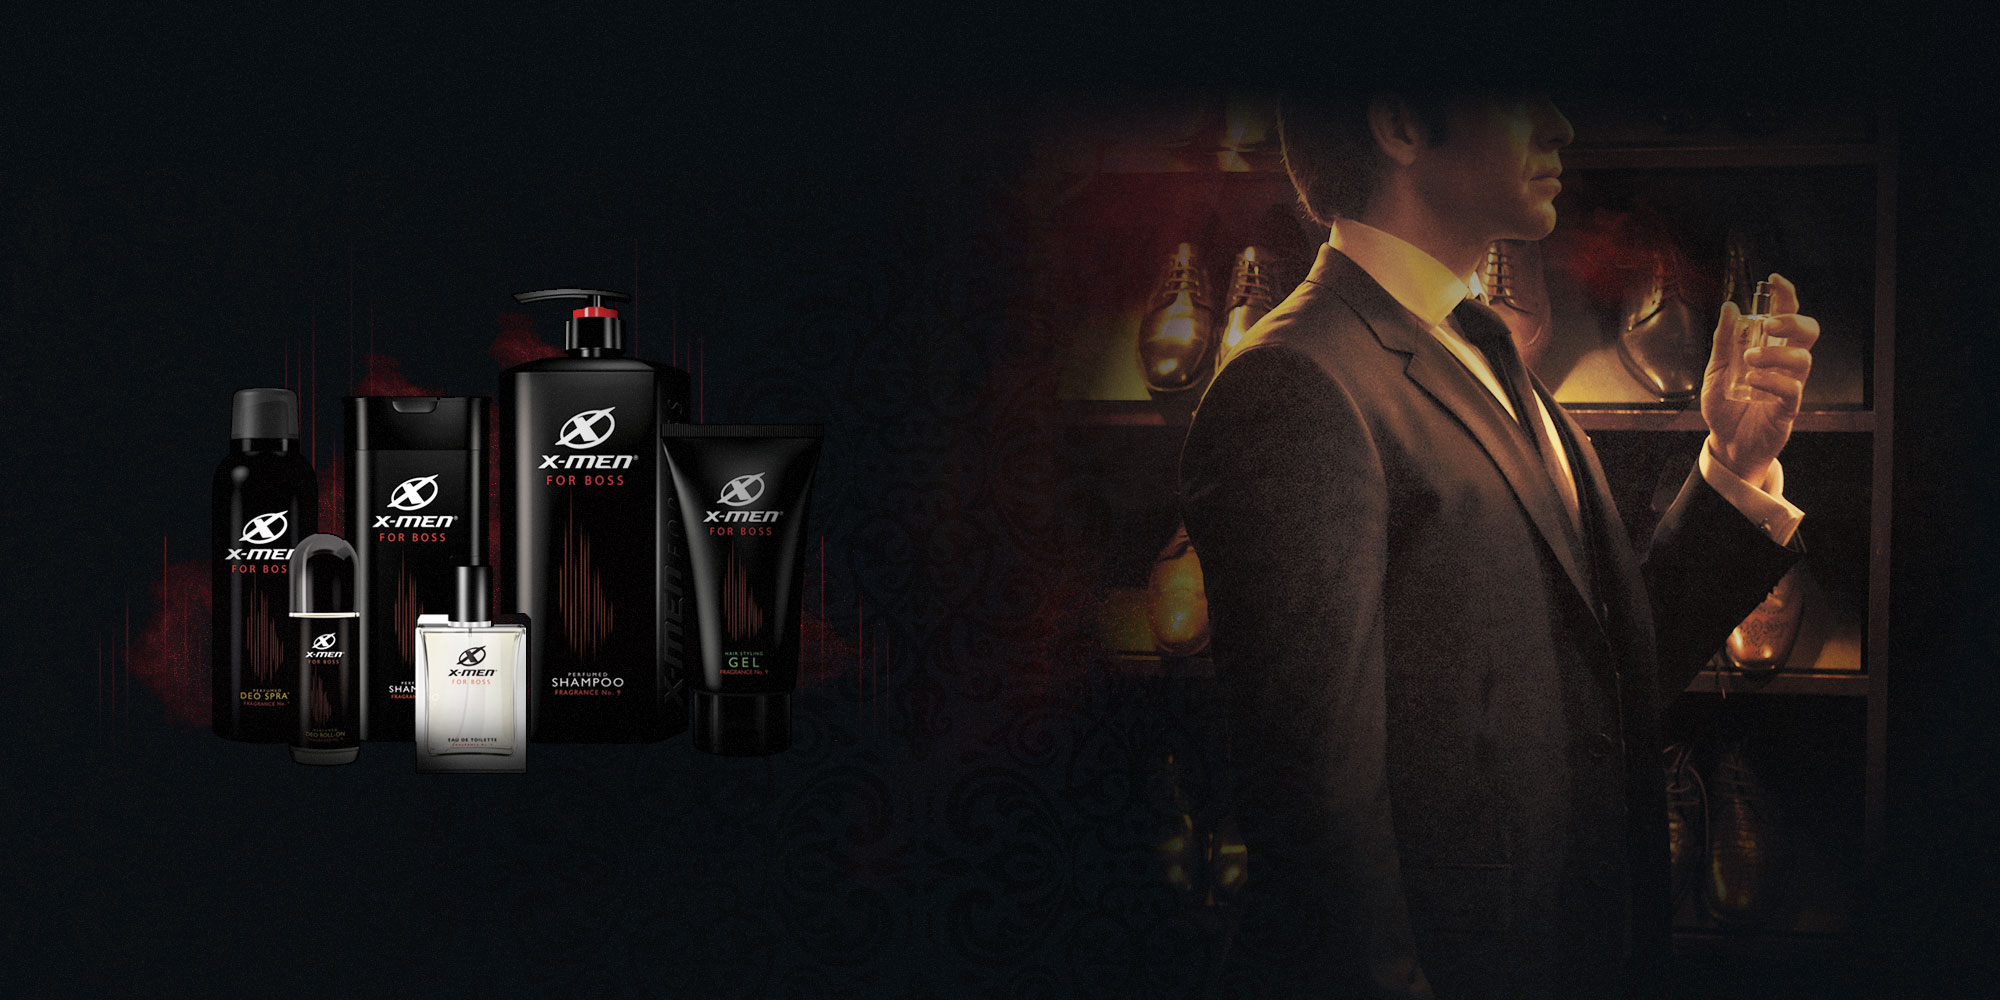
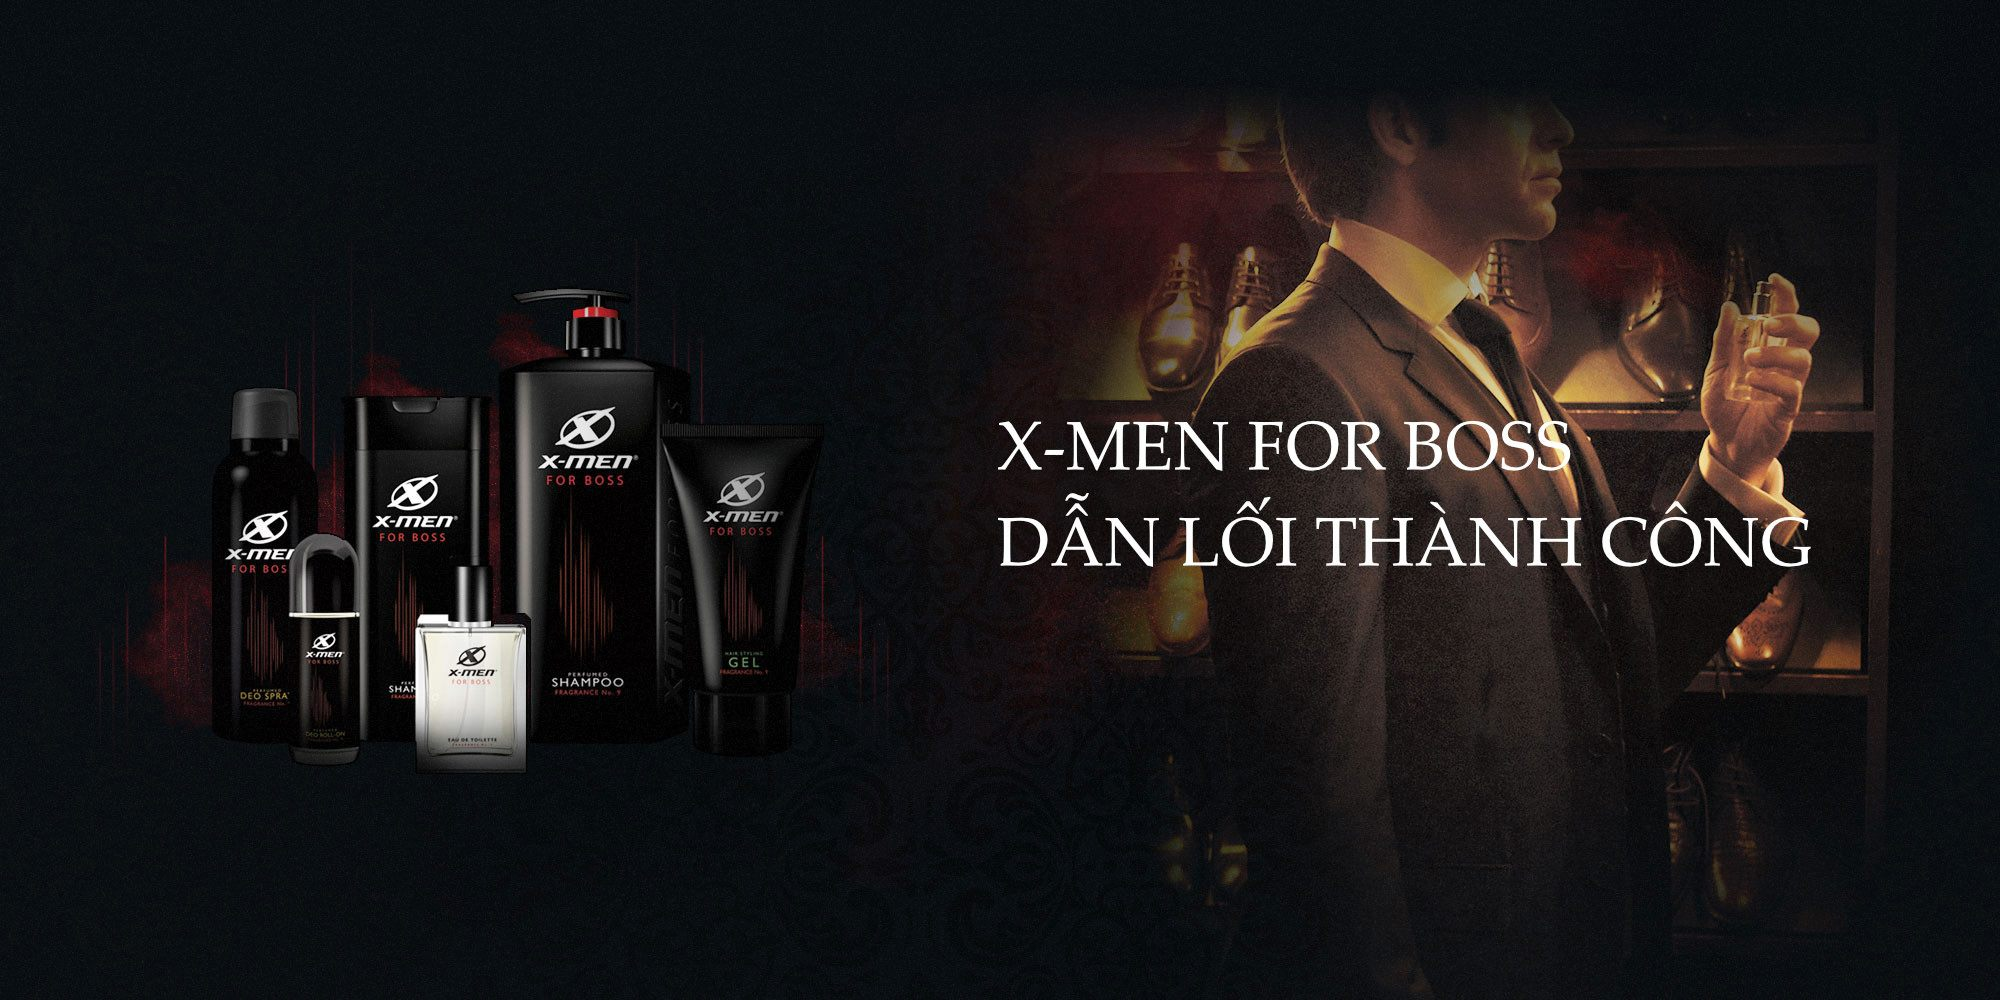
15.08.2017 (1)

Changed region(s): [[0.496, 0.496, 0.899, 0.589], [0.496, 0.403, 0.806, 0.496], [0.279, 0.465, 0.31, 0.496]]

diff --git a/xmen-boss/index_back.html b/xmen-boss/index_back.html
@@ -1,24 +1,11 @@
 <!DOCTYPE html>
 <html lang="en">
   <head>
-    <title>X-MEN FOR BOSS</title>
+    <title>Shampoo</title>
     <meta charset="utf-8">
     <meta http-equiv="X-UA-Compatible" content="IE=edge,chrome=1">
     <meta name="viewport" content="width=device-width, initial-scale=1, maximum-scale=1">
-    <meta property="og:type" content="article" />
-    <meta property="og:site_name" content="X-men Shampoo" />
-    <meta property="og:url" content="http://x-men.com.vn/xmen-boss" />
-    <meta property="article:author" content="https://www.facebook.com/XmenForbossVietnam/?fref=ts"/>
-    <meta property="article:publisher" content="https://www.facebook.com/XmenForbossVietnam/?fref=ts" />
-    <meta property="fb:page_id" content="300542253404750" />
-    <meta name="description" content="Khám phá ngay." />
-    <meta property="og:title" content="XMEN FOR BOSS - DẪN LỐI THÀNH CÔNG" />
-    <meta property="og:description" content="Khám phá ngay." />
-    <meta name="keywords" content="XMEN Việt Nam, xmen, Xmen style, xmen boss, x men viet nam" />
-    <meta property="og:image" content="http://stc.xmenshampoo.brand.zing.vn/static/default/frontend/tmp/xmen_boss/images/thumbnail.jpg"/>
-    <meta name="apple-mobile-web-app-title" content="XMEN FOR BOSS - DẪN LỐI THÀNH CÔNG">
-    <meta name="apple-mobile-web-app-capable" content="yes">
-    <meta name="apple-mobile-web-app-status-bar-style" content="black-translucent">
+    <meta name="description" content="Description here">
     <link href="css/fonts.css" onload="document.body.className+=' fontsloaded';" rel="stylesheet" type="text/css">
     <link href="css/video-js.css" rel="stylesheet" type="text/css">
     <link href="css/slick.min.css" rel="stylesheet" type="text/css">
@@ -34,7 +21,6 @@
       <div style="background:url(images/default/ratio_16x9.png)" class="bg-img"></div>
     </div>
     <!-- End Loading-->
-    <a href="#" class="o-arrow c-arrow-left" style="opacity: 0.2;"></a><a href="#" class="o-arrow c-arrow-right" style="opacity: 0.2;"></a>
     <!-- Navbar-->
     <section class="s-navbar">
       <div class="o-brand u-pull-left"><a href="index.html" class="logo"></a>
@@ -47,7 +33,7 @@
             <div class="trigger-menu"><span class="three-bars-icon"></span></div>
           </div>
         </div>
-        <!-- Nav      -->
+        <!-- Nav			-->
         <div class="o-nav-navbar inner-nav invisible-tablet desktop-nav">
           <ul class="list-unstyled">
             <li><a class="nav-link" href="../index.html">Mùi hương của sức mạnh</a>
@@ -86,33 +72,14 @@
     </section>
     <!-- End Navbar-->
     <div canvas="container" class="s-canvas__body off-canvas">
-        <!-- Section Full-->
-      <div class="s-wrapper" style="background:#080c10;">
+      <div class="s-wrapper">
         <!-- Section Full-->
         <!-- End Section Mobile-->
         <div id="fullpage-xit" class="fp-appear-animate fb-mobile">
           <!-- Section 1-->
-          <div class="s-page-section section" id="home-sp">
-            <div class="m-carousel c-carousel">
-              <!-- slide 1-->
-              <div class="o-carousel">
-                <div class="c-carousel">
-                    <img src="images/boss/bg_boss.jpg" style="display: block;object-fit: cover;" />
-                </div>
-                <div class="m-carousel">
-                    <img src="images/boss/bg_boss_m.jpg" style="display: block;object-fit: cover;" />
-                </div>
-              </div>
-              <!-- end slide 1-->
-              <!-- slide 1-->
-              <div class="o-carousel">
-                <div class="c-carousel">
-                    <img src="images/boss/bg_boss1.jpg" style="display: block;object-fit: cover;" />
-                </div>
-                <div class="m-carousel">
-                    <img src="images/boss/bg_boss1_m.jpg" style="display: block;object-fit: cover;" />
-                </div>
-              </div>
+          <div class="s-page-section section">
+            <div id="slide1" class="slide section-boss"><a href="daugoinuochoa.html" class="link-pos"></a>
+              <div class="bl-txt-boss">X-men for boss <span>Dẫn Lối Thành công<span></div>
             </div>
             <!-- scroll down--><a href="#video" class="o-icon c-icon-scrolldown3">
               <div class="icon-scroll"></div><span>Khám phá ngay</span></a>
@@ -221,7 +188,7 @@
         <div class="w-social g-icon"><a href="https://www.facebook.com/danongdichthuc.FP/?fref=ts" class="c-icon-facebook o-icon"></a><a href="https://www.youtube.com/watch?v=bv7JxDFwEsc" class="c-icon-instagram o-icon"></a></div>
       </div>
       <div class="o-nav-navbar-mobile inner-nav mobile-nav">
-        <ul class="list-unstyled">      
+        <ul class="list-unstyled">			
           <li><a class="nav-link" href="index.html">Mùi hương của sức mạnh</a>
           </li>
           <li><a data-toggle="collapse" href="#collapseExample-menu2" class="nav-link mn-has-sub">Chất x-men của tôi <span class="caret"></span></a>
@@ -272,62 +239,43 @@
     <script src="js/video.js" type="text/javascript"></script>
     <script>
       var video = videojs("video-default", { "poster": "images/boss/poster_video1.jpg"});
-        video.on('ended', function () {
-        this.posterImage.show();
-        this.bigPlayButton.show();
+      	video.on('ended', function () {
+      	this.posterImage.show();
+      	this.bigPlayButton.show();
       });
       video.on('pause', function () {
-        this.bigPlayButton.show();
+      	this.bigPlayButton.show();
       });
       video.on('play', function () {
-        this.trigger('loadstart');
-        this.posterImage.hide();
-        this.bigPlayButton.hide();
+      	this.trigger('loadstart');
+      	this.posterImage.hide();
+      	this.bigPlayButton.hide();
       });
+      
     </script>
     <script src="js/fullpage.min.js" type="text/javascript"></script>
     <script src="js/slidebars.min.js" type="text/javascript"></script>
     <script src="js/slidebars.control.js" type="text/javascript"></script>
     <script src="js/jquery.mCustomScrollbar.concat.min.js" type="text/javascript"></script>
     <link href="css/jquery.mCustomScrollbar.min.css" rel="stylesheet" type="text/css">
-    <script src="js/slick.min.js" type="text/javascript"></script>
     <script>
       if(window.innerWidth < 980){
-        (function($){
-          $(window).on("load",function(){
-            $(".has-scroll").mCustomScrollbar();
-            $('.c-carousel').slick({
-              dots: true,
-              slidesToShow: 1,
-              slidesToScroll: 1,
-              autoplay: true,
-              autoplaySpeed: 5000,
-              adaptiveHeight: true,
-              prevArrow: '.c-arrow-left',
-              nextArrow: '.c-arrow-right',
-            });
-          });
-        })(jQuery);
+      	(function($){
+      		$(window).on("load",function(){
+      			$(".has-scroll").mCustomScrollbar();
+      		});
+      	})(jQuery);
       }
     </script>
+    <script src="js/slick.min.js" type="text/javascript"></script>
     <script>
       if(window.innerWidth > 980){
-        /*$('.c-carousel-v').slick({
-          slidesToShow: 4,
-          slidesToScroll: 1,
-          autoplay: false,
-          infinite: false
-        });*/
-        $('.c-carousel').slick({
-              dots: true,
-              slidesToShow: 1,
-              slidesToScroll: 1,
-              autoplay: true,
-              autoplaySpeed: 5000,
-              adaptiveHeight: true,
-              prevArrow: '.c-arrow-left',
-              nextArrow: '.c-arrow-right',
-            });
+      	$('.c-carousel-v').slick({
+      		slidesToShow: 4,
+      		slidesToScroll: 1,
+      		autoplay: false,
+      		infinite: false
+      	});
       }
     </script>
     <script src="js/fullpage.control2.js" type="text/javascript"></script>

diff --git a/xmen-boss/css/layout.css b/xmen-boss/css/layout.css
@@ -1700,12 +1700,12 @@ fieldset[disabled] .o-button {
 
 .m-carousel .slick-dots {
   position: absolute;
-  bottom: 25px;
+  bottom: 25px; /*25px*/
   list-style: none;
   display: block;
   text-align: center;
-  padding: 0;
-  margin: 0;
+  padding: 0px;
+  margin: 0px 0px 0px 43px;
   width: 100%;
 }
 
@@ -6970,3 +6970,10 @@ body {
 /*------------------------------------------------------------------
 [Update module 3 CSS - Date]
 -------------------------------------------------------------------*/
+#home-sp .o-carousel .m-carousel { display: none; } 
+@media only screen and (max-width: 640px){
+  #home-sp .o-carousel .c-carousel { display: none; }
+  #home-sp .o-carousel .m-carousel { display: block; } 
+  #home-sp { margin-top: 30px; }
+  #home-sp .m-carousel .slick-dots { bottom: 100px; margin: 0px 0px 0px 0px; }
+}

diff --git a/xmen-boss/sanphamkhumui.html b/xmen-boss/sanphamkhumui.html
@@ -1,5 +1,3 @@
-
-
 <!DOCTYPE html>
 <html lang="en">
   <head>

diff --git a/xmen-boss/sanphamtaokieu.html b/xmen-boss/sanphamtaokieu.html
@@ -1,5 +1,3 @@
-
-
 <!DOCTYPE html>
 <html lang="en">
   <head>
